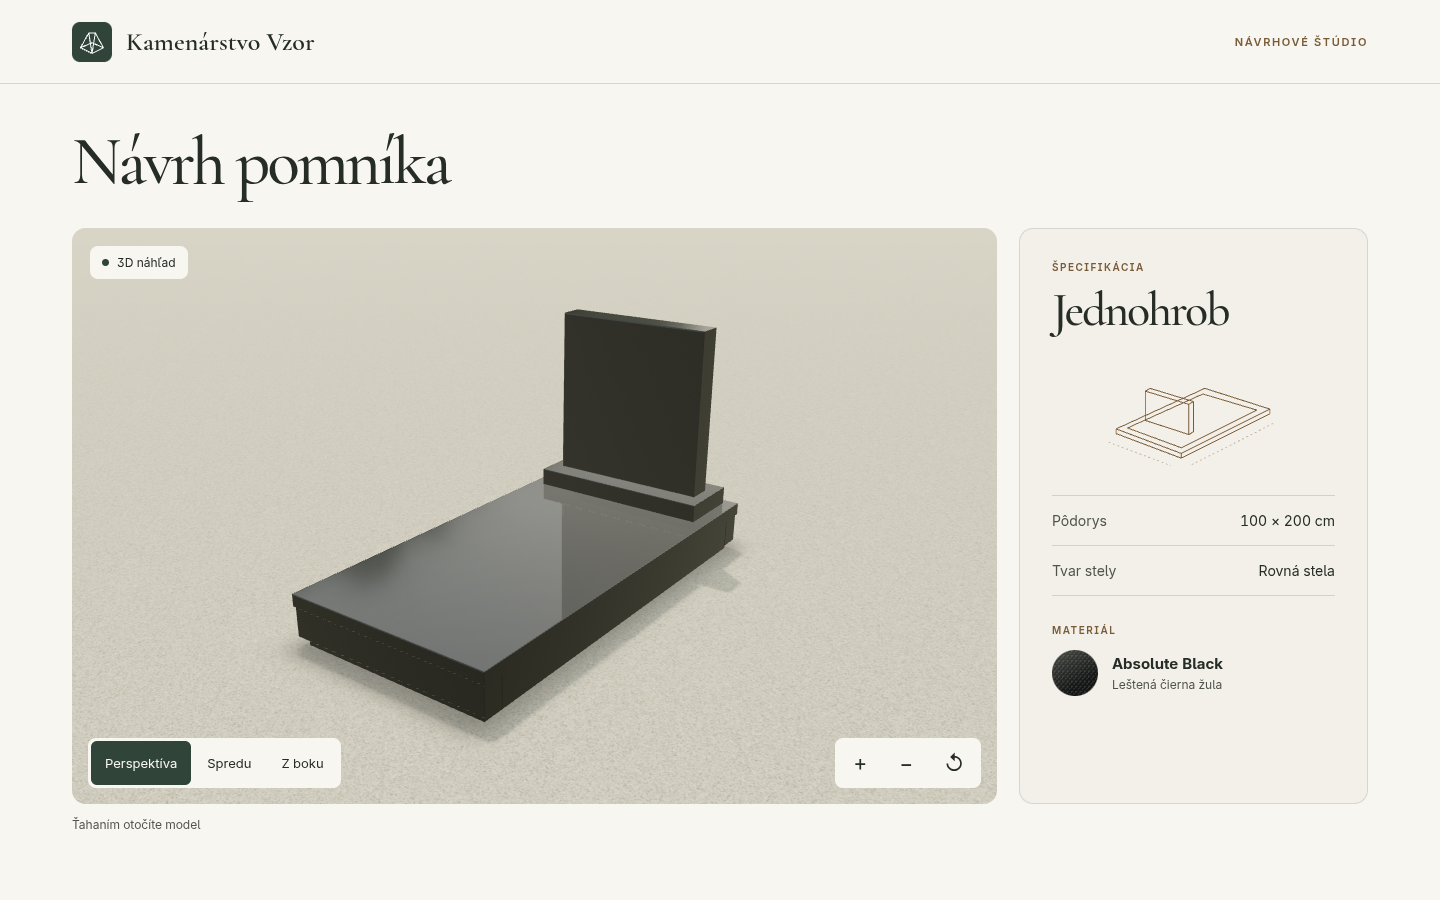
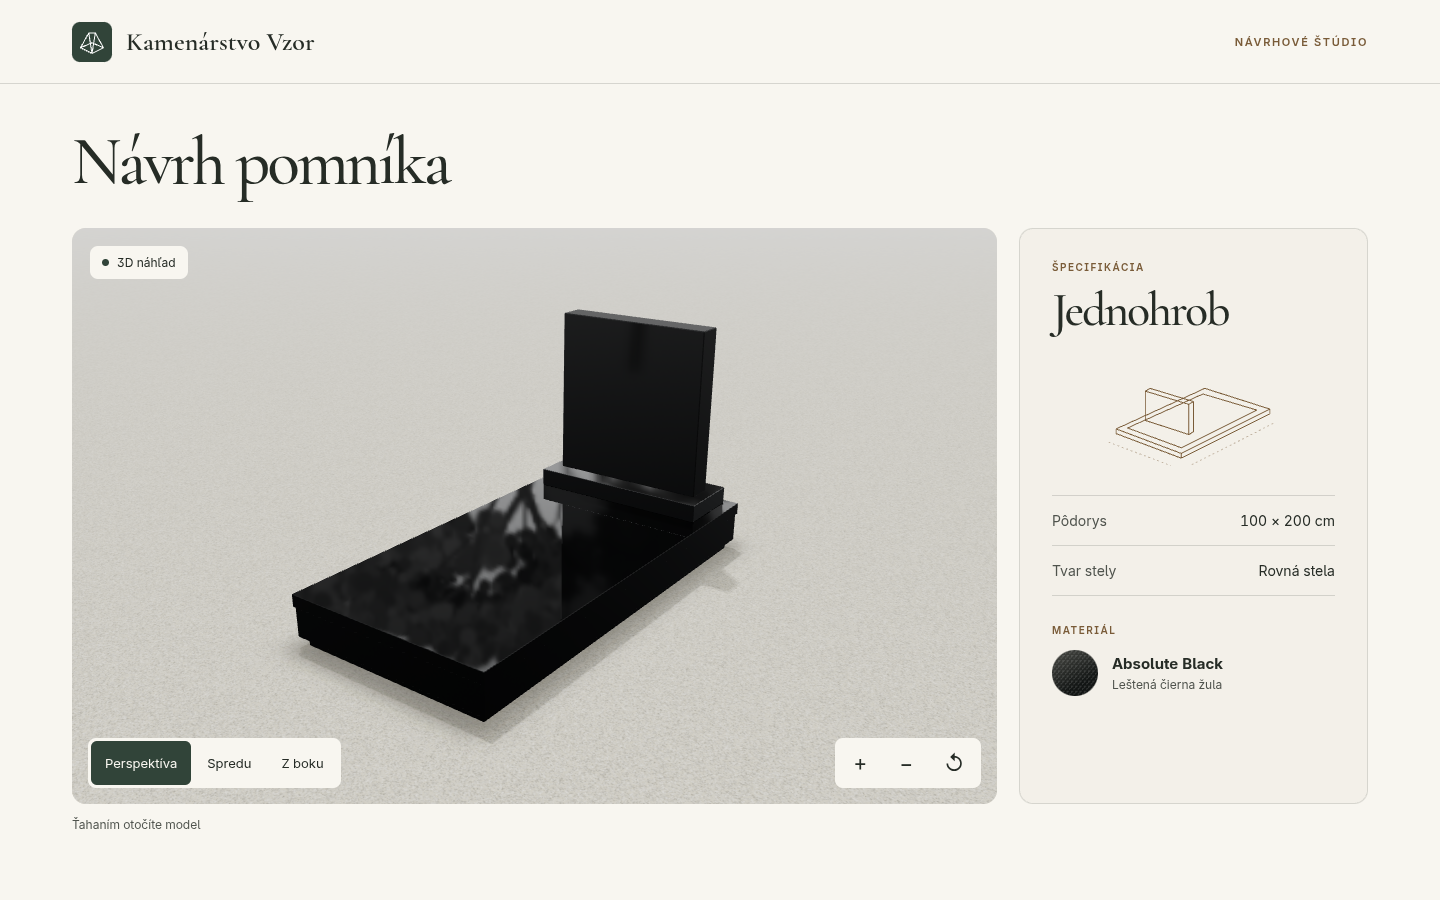
Opraviť čiernu žulu, odrazy, tieň a geometriu obruby

Changed region(s): [[0.1875, 0.3422, 0.5312, 0.8089]]

diff --git a/studio/js/scena.js b/studio/js/scena.js
@@ -13,19 +13,39 @@ function surface(w,h){
 function landscape(random){
   const ctx=surface(2048,1024);
   const sky=ctx.createLinearGradient(0,0,0,1024);
-  for(const [stop,color] of [[0,'#869fb1'],[0.39,'#e2e4df'],[0.49,'#fff2da'],[0.53,'#95937b'],[1,'#777665']]) sky.addColorStop(stop,color);
-  ctx.fillStyle=sky; ctx.fillRect(0,0,2048,1024);
-  const light=ctx.createRadialGradient(470,382,0,470,382,210);
-  light.addColorStop(0,'#fff9e8'); light.addColorStop(1,'#fff9e800');
-  ctx.fillStyle=light; ctx.fillRect(0,0,2048,560);
-  for(let i=0;i<480;i++){
-    const x=random()*2048, a=x/2048*Math.PI*2;
-    const height=95+44*Math.sin(4*a)+26*Math.cos(7*a)+random()*24+88*Math.pow(Math.cos(a),4);
-    const width=6+random()*17;
-    const tone=Math.floor(59+random()*36);
-    ctx.fillStyle='rgb('+tone+','+(tone+6)+','+(tone-8)+')';
-    for(const shift of [-2048,0,2048]){
-      ctx.beginPath();ctx.ellipse(x+shift,525-height/2,width,height/2,0,0,Math.PI*2);ctx.fill();
+  for(const [stop,color] of [[0,'#aaaeb2'],[0.40,'#f2f3f4'],[0.49,'#ffffff'],
+                            [0.53,'#a3a4a5'],[0.65,'#424446'],[1,'#242526']]){
+    sky.addColorStop(stop,color);
+  }
+  ctx.fillStyle=sky;ctx.fillRect(0,0,2048,1024);
+  // Different heights and distances break the horizon into sky, crowns and trunks.
+  for(let i=0;i<56;i++){
+    const x=(i+0.2+0.6*random())*2048/56, foot=535+random()*85;
+    const height=186+random()*152;
+    const shade=Math.round(42+random()*63);
+    const tree=surface(230,300);
+    tree.lineCap='round';
+    function branch(px,py,length,angle,width,level){
+      const ex=px+length*Math.sin(angle),ey=py-length*Math.cos(angle);
+      tree.strokeStyle='rgb('+shade+' '+shade+' '+shade+')';
+      tree.lineWidth=width;
+      tree.beginPath();tree.moveTo(px,py);tree.lineTo(ex,ey);tree.stroke();
+      if(level>0){
+        for(const sign of [-1,1]){
+          branch(ex,ey,length*(0.58+random()*0.16),angle+sign*(0.18+random()*0.49),
+            width*0.61,level-1);
+        }
+      }else{
+        for(let k=0;k<22;k++){
+          const radius=1+random()*2.6,value=shade+Math.round(random()*34);
+          tree.fillStyle='rgb('+value+' '+value+' '+value+')';
+          tree.beginPath();tree.arc(ex+(random()-0.5)*20,ey+(random()-0.5)*15,radius,0,2*Math.PI);tree.fill();
+        }
+      }
+    }
+    branch(115,299,87,random()*0.14-0.07,7,6);
+    for(const dx of [-2048,0,2048]){
+      ctx.drawImage(tree.canvas,x+dx-height*0.38,foot-height,height*0.76,height);
     }
   }
   const tex=new T.CanvasTexture(ctx.canvas);
@@ -51,7 +71,7 @@ export function scena(host,model,stone,onOrbit){
   const mobile=matchMedia('(max-width:760px)').matches;
   const renderer=new T.WebGLRenderer({antialias:true,powerPreference:mobile?'low-power':'high-performance'});
   renderer.setPixelRatio(Math.min(devicePixelRatio,mobile?1.25:2));
-  renderer.shadowMap.enabled=true;renderer.shadowMap.type=T.VSMShadowMap;
+  renderer.shadowMap.enabled=true;renderer.shadowMap.type=T.PCFSoftShadowMap;
   renderer.shadowMap.autoUpdate=false;renderer.shadowMap.needsUpdate=true;
   renderer.toneMapping=T.ACESFilmicToneMapping;
   host.append(renderer.domElement);
@@ -62,18 +82,27 @@ export function scena(host,model,stone,onOrbit){
   scene.environment=generator.fromEquirectangular(panorama).texture;
   generator.dispose();
   scene.background=panorama;scene.backgroundBlurriness=0.17;
-  scene.fog=new T.FogExp2(0xdad6c8,0.072);
-  const monument=jednohrob(model,vytvorZulu(stone));scene.add(monument);
-  // Local reflection adds the stela and its plinth to the polished cover.
-  const mirrorSize=mobile?256:512;
-  const reflection=new Reflector(new T.PlaneGeometry(model.sirka+0.006,model.dlzka+0.006),{
-    textureWidth:mirrorSize,textureHeight:mirrorSize,multisample:0,clipBias:0.002
-  });
-  reflection.rotation.x=-Math.PI/2;reflection.position.y=0.2432;
-  reflection.material.transparent=true;reflection.material.depthWrite=false;
-  reflection.material.fragmentShader=reflection.material.fragmentShader.replace(
-    'vec4( blendOverlay( base.rgb, color ), 1.0 )','vec4(base.rgb,0.23)');
-  scene.add(reflection);
+  scene.fog=new T.FogExp2(0xd7d7d7,0.055);
+  function coverFace(width,depth){
+    const size=mobile?512:1024;
+    const face=new Reflector(new T.PlaneGeometry(width,depth),{
+      textureWidth:size,textureHeight:size,clipBias:0,multisample:0
+    });
+    const captureMaterial=face.material;
+    face.material=vytvorZulu(stone,{mirror:captureMaterial.uniforms});
+    captureMaterial.dispose();
+    const capture=face.onBeforeRender;
+    face.onBeforeRender=(renderer,scene,camera)=>{
+      const backgroundBlur=scene.backgroundBlurriness;
+      scene.backgroundBlurriness=0;
+      try{capture(renderer,scene,camera);}
+      finally{scene.backgroundBlurriness=backgroundBlur;}
+    };
+    face.receiveShadow=true;
+    return face;
+  }
+  const monument=jednohrob(model,vytvorZulu(stone),vytvorZulu(stone,{satin:true}),coverFace);
+  scene.add(monument);
   const ground=new T.Mesh(new T.PlaneGeometry(140,140),new T.MeshStandardMaterial({
     map:gravel(random),roughness:1
   }));
@@ -84,12 +113,50 @@ export function scena(host,model,stone,onOrbit){
   const contact=new T.Mesh(new T.PlaneGeometry(model.sirka*1.28,model.dlzka*1.20),
     new T.MeshBasicMaterial({map:new T.CanvasTexture(ctx.canvas),transparent:true,depthWrite:false}));
   contact.rotation.x=-Math.PI/2;contact.position.y=0.001;scene.add(contact);
-  scene.add(new T.HemisphereLight(0xfff4dc,0xa6a79a,0.78));
-  const sun=new T.DirectionalLight(0xfff0d6,1.55);
+  scene.add(new T.HemisphereLight(0xffffff,0x909090,0.6));
+  const sun=new T.DirectionalLight(0xffffff,1.35);
   sun.position.set(-2,7,-1.4);sun.castShadow=true;
   sun.shadow.mapSize.setScalar(mobile?1024:2048);
   Object.assign(sun.shadow.camera,{left:-2,right:2,top:2,bottom:-2,near:1,far:12});
-  sun.shadow.radius=9;sun.shadow.blurSamples=8;sun.shadow.normalBias=0.003;sun.shadow.bias=-0.00015;scene.add(sun);
+  sun.shadow.normalBias=0.0012;
+  sun.shadow.bias=-0.00007;
+  scene.add(sun);
+  // Expand the PCF footprint with blocker distance for this orthographic light.
+  // Near the contact line keep the built-in sub-texel PCFSoft filter.
+  const shadowChunk=T.ShaderChunk.shadowmap_pars_fragment.replace(
+    '#elif defined( SHADOWMAP_TYPE_VSM )',
+    `float blockerDepth=unpackRGBAToDepth(texture2D(shadowMap,shadowCoord.xy));
+     float separation=max(0.0,shadowCoord.z-blockerDepth);
+     // Look just inside the silhouette as well, so the penumbra extends outside.
+     for(int i=0;i<6;i++){
+       float angle=float(i)*1.04719755;
+       vec2 offset=vec2(cos(angle),sin(angle))*0.0025;
+       float sampleDepth=unpackRGBAToDepth(texture2D(shadowMap,shadowCoord.xy+offset));
+       separation=max(separation,shadowCoord.z-sampleDepth);
+     }
+     float radius=min(0.005,separation*0.065);
+     if(radius>texelSize.x){
+       float visibility=0.0;
+       for(int i=0;i<16;i++){
+         float n=float(i)+0.5;
+         vec2 disk=vec2(cos(n*2.399963),sin(n*2.399963))*sqrt(n/16.0);
+         visibility+=texture2DCompare(shadowMap,shadowCoord.xy+disk*radius,shadowCoord.z);
+       }
+       shadow=mix(shadow,visibility/16.0,smoothstep(texelSize.x,2.0*texelSize.x,radius));
+     }
+     #elif defined( SHADOWMAP_TYPE_VSM )`
+  );
+  const receivers=new Set([ground.material]);
+  monument.traverse(mesh=>{
+    if(mesh.isMesh)for(const mat of [mesh.material].flat())receivers.add(mat);
+  });
+  for(const mat of receivers){
+    const compile=mat.onBeforeCompile.bind(mat);
+    mat.onBeforeCompile=(shader,renderer)=>{
+      compile(shader,renderer);
+      shader.fragmentShader=shader.fragmentShader.replace('#include <shadowmap_pars_fragment>',shadowChunk);
+    };
+  }
   const camera=new T.PerspectiveCamera(33,1,0.05,180);
   const controls=new OrbitControls(camera,renderer.domElement);
   controls.enablePan=false;controls.minDistance=1.65;controls.maxDistance=7;

diff --git a/studio/js/tvary.js b/studio/js/tvary.js
@@ -1,31 +1,66 @@
-import * as THREE from 'three';
+import * as T from 'three';
 
-// Dimensions are in metres. Small planar chamfers catch the grazing sky light.
-export function jednohrob({sirka:w, dlzka:d, vyskaStely:h}, material) {
-  const group = new THREE.Group();
-  function block(width, height, depth, x, bottom, z, bevel = 0.003) {
-    const a = width/2-bevel, b = height/2-bevel;
-    const outline = new THREE.Shape();
-    outline.moveTo(-a,-b); outline.lineTo(a,-b); outline.lineTo(a,b);
-    outline.lineTo(-a,b); outline.closePath();
-    const geometry = new THREE.ExtrudeGeometry(outline,{
-      depth:depth-2*bevel, bevelEnabled:true, bevelSegments:1,
-      bevelThickness:bevel, bevelSize:bevel, steps:1
-    });
-    geometry.center();
-    const mesh = new THREE.Mesh(geometry,material);
-    mesh.position.set(x,bottom+height/2,z);
-    mesh.castShadow = mesh.receiveShadow = true;
+// A single closed perimeter avoids coincident end faces and seams at the corners.
+function blockGeometry(w, h, d, bevel, openTop) {
+  const x=w/2, z=d/2, b=bevel;
+  const rim=[[-x+b,-z],[x-b,-z],[x,-z+b],[x,z-b],
+             [x-b,z],[-x+b,z],[-x,z-b],[-x,-z+b]];
+  const corners=[[-x+b,-z+b],[x-b,-z+b],[x-b,z-b],[-x+b,z-b]];
+  const end=[0,1,1,2,2,3,3,0].map(i=>corners[i]);
+  const ring=(points,y)=>points.map(([px,pz])=>new T.Vector3(px,y,pz));
+  const rings=[ring(end,-h/2),ring(rim,-h/2+b),ring(rim,h/2-b),ring(end,h/2)];
+  const positions=[];
+  function triangle(a,b,c){
+    const n=new T.Vector3().subVectors(b,a).cross(new T.Vector3().subVectors(c,a));
+    if(n.lengthSq()<1e-20)return;
+    // All faces of this convex body point away from its centre.
+    const face=n.dot(a)>0?[a,b,c]:[a,c,b];
+    for(const point of face)positions.push(point.x,point.y,point.z);
+  }
+  for(let layer=0;layer<3;layer++){
+    for(let i=0;i<8;i++){
+      const j=(i+1)%8, lower=rings[layer], upper=rings[layer+1];
+      triangle(lower[i],lower[j],upper[j]);
+      triangle(lower[i],upper[j],upper[i]);
+    }
+  }
+  for(const y of openTop?[-h/2]:[-h/2,h/2]){
+    const [a,b,c,d]=ring(corners,y);
+    triangle(a,b,c);triangle(a,c,d);
+  }
+  const geometry=new T.BufferGeometry();
+  geometry.setAttribute('position',new T.Float32BufferAttribute(positions,3));
+  geometry.computeVertexNormals();
+  return geometry;
+}
+
+export function jednohrob({sirka:w,dlzka:d,vyskaStely:h},polished,satin,makeCoverFace){
+  const group=new T.Group();
+  function block(width,height,depth,bottom,z,material,bevel=0.002,openTop=false){
+    const mesh=new T.Mesh(blockGeometry(width,height,depth,bevel,openTop),material);
+    mesh.position.set(0,bottom+height/2,z);
+    mesh.castShadow=mesh.receiveShadow=true;
     group.add(mesh);
+    return mesh;
   }
-  block(w-0.06,0.045,d-0.06,0,0,0);
-  const rail=0.10;
-  for(const sign of [-1,1]){
-    block(w,0.14,rail,0,0.045,sign*(d-rail)/2);
-    block(rail,0.14,d-2*rail,sign*(w-rail)/2,0.045,0);
+  block(w-0.06,0.045,d-0.06,0,0,satin);
+  block(w,0.14,d,0.045,0,satin);
+  const coverHeight=0.185+0.058, bevel=0.002;
+  block(w+0.014,0.058,d+0.014,0.185,0,satin,bevel,true);
+  const face=makeCoverFace(w+0.014-2*bevel,d+0.014-2*bevel);
+  face.rotation.x=-Math.PI/2;
+  face.position.y=coverHeight;
+  group.add(face);
+  block(w*0.89,0.085,0.32,coverHeight,-d/2+0.195,polished);
+  const stela=block(w*0.78,h,0.125,coverHeight+0.085,-d/2+0.195,[polished,satin],0.004);
+  // Keep the broad inscription faces polished and the narrow return faces satin.
+  const normals=stela.geometry.getAttribute('normal');
+  let start=0,previous=-1;
+  for(let i=0;i<normals.count;i+=3){
+    const index=Math.abs(normals.getZ(i))>0.999?0:1;
+    if(i && index!==previous){stela.geometry.addGroup(start,i-start,previous);start=i;}
+    previous=index;
   }
-  block(w+0.014,0.058,d+0.014,0,0.185,0);
-  block(w*0.89,0.085,0.32,0,0.243,-d/2+0.195);
-  block(w*0.78,h,0.125,0,0.328,-d/2+0.195,0.005);
+  stela.geometry.addGroup(start,normals.count-start,previous);
   return group;
 }

diff --git a/studio/js/kamen.js b/studio/js/kamen.js
@@ -1,29 +1,62 @@
-import * as THREE from 'three';
+import * as T from 'three';
 
-export function vytvorZulu(kamen) {
-  const material = new THREE.MeshPhysicalMaterial({
-    color: kamen.farba, roughness: kamen.drsnost, metalness: 0,
-    ior: 1.58, clearcoat: 0.32, clearcoatRoughness: 0.075
+// Interpolation and footprint filtering keep the minerals continuous at both scales.
+const noiseGLSL=`
+  varying vec3 vStone;
+  uniform float grainScale;
+  float lattice(vec3 p){
+    p=fract(p*0.1031);p+=dot(p,p.yzx+33.33);
+    return fract((p.x+p.y)*p.z);
+  }
+  float smoothNoise(vec3 p){
+    vec3 i=floor(p),f=fract(p);
+    vec3 u=f*f*f*(f*(f*6.0-15.0)+10.0);
+    vec3 e=vec3(1,0,0);
+    return mix(
+      mix(mix(lattice(i),lattice(i+e.xyy),u.x),mix(lattice(i+e.yxy),lattice(i+e.xxy),u.x),u.y),
+      mix(mix(lattice(i+e.yyx),lattice(i+e.xyx),u.x),mix(lattice(i+e.yxx),lattice(i+1.0),u.x),u.y),
+      u.z);
+  }
+  float visibleGrain(vec3 p){
+    return 1.0-smoothstep(0.35,1.5,length(fwidth(p)));
+  }
+`;
+
+export function vytvorZulu(stone,{satin=false,mirror=null}={}){
+  const material=new T.MeshPhysicalMaterial({
+    color:stone.farba, roughness:satin?0.29:stone.drsnost, metalness:0,
+    ior:1.52, clearcoat:satin?0.18:1, clearcoatRoughness:satin?0.24:0.04,
+    fog:false
   });
-  material.onBeforeCompile = shader => {
-    shader.uniforms.grainScale = {value: kamen.zrno};
-    shader.vertexShader = 'varying vec3 vStone;\n' + shader.vertexShader.replace(
-      '#include <begin_vertex>', '#include <begin_vertex>\nvStone = position;');
-    shader.fragmentShader = `
-      varying vec3 vStone;
-      uniform float grainScale;
-      float grain(vec3 p){
-        p=fract(p*0.1031); p+=dot(p,p.yzx+33.33); return fract((p.x+p.y)*p.z);
-      }
-    ` + shader.fragmentShader.replace('#include <color_fragment>', `
+  material.customProgramCacheKey=()=>mirror?'granite-planar':'granite-environment';
+  material.onBeforeCompile=shader=>{
+    shader.uniforms.grainScale={value:stone.zrno};
+    shader.vertexShader='varying vec3 vStone;\n'+shader.vertexShader.replace(
+      '#include <begin_vertex>','#include <begin_vertex>\nvStone=position;');
+    shader.fragmentShader=noiseGLSL+shader.fragmentShader.replace('#include <color_fragment>',`
       #include <color_fragment>
-      vec3 p=vStone*grainScale;
-      float crystal=grain(floor(p));
-      float visibility=1.0-smoothstep(0.4,1.8,length(fwidth(p)));
-      float mineral=mix(0.22,pow(crystal,5.0),visibility);
-      diffuseColor.rgb *= 0.75 + grain(floor(p*0.34))*0.25;
-      diffuseColor.rgb += vec3(0.042,0.043,0.044)*mineral;
+      vec3 p=vStone*grainScale*0.28;
+      float coarse=smoothNoise(p)-0.5;
+      float fine=smoothNoise(p*2.13+7.3)-0.5;
+      vec3 micro=p*4.51+17.2;
+      float crystals=smoothstep(0.76,0.94,smoothNoise(micro));
+      diffuseColor.rgb*=1.0+coarse*visibleGrain(p)*0.65+fine*visibleGrain(p*2.13)*0.38;
+      diffuseColor.rgb+=vec3(0.035)*mix(0.012,crystals,visibleGrain(micro));
     `);
+    if(mirror){
+      // The reflected scene replaces incident specular radiance. The physical
+      // shader still applies its dielectric Fresnel, grain and clear coat once.
+      shader.uniforms.reflectedScene=mirror.tDiffuse;
+      shader.uniforms.mirrorMatrix=mirror.textureMatrix;
+      shader.vertexShader='uniform mat4 mirrorMatrix; varying vec4 mirrorUV;\n'+
+        shader.vertexShader.replace('#include <begin_vertex>',
+          '#include <begin_vertex>\nmirrorUV=mirrorMatrix*vec4(position,1.0);');
+      const ibl=T.ShaderChunk.envmap_physical_pars_fragment.replace(
+        'vec4 envMapColor = textureCubeUV( envMap, reflectVec, roughness );',
+        'vec4 envMapColor = texture2DProj(reflectedScene,mirrorUV);');
+      shader.fragmentShader='uniform sampler2D reflectedScene; varying vec4 mirrorUV;\n'+
+        shader.fragmentShader.replace('#include <envmap_physical_pars_fragment>',ibl);
+    }
   };
   return material;
 }
